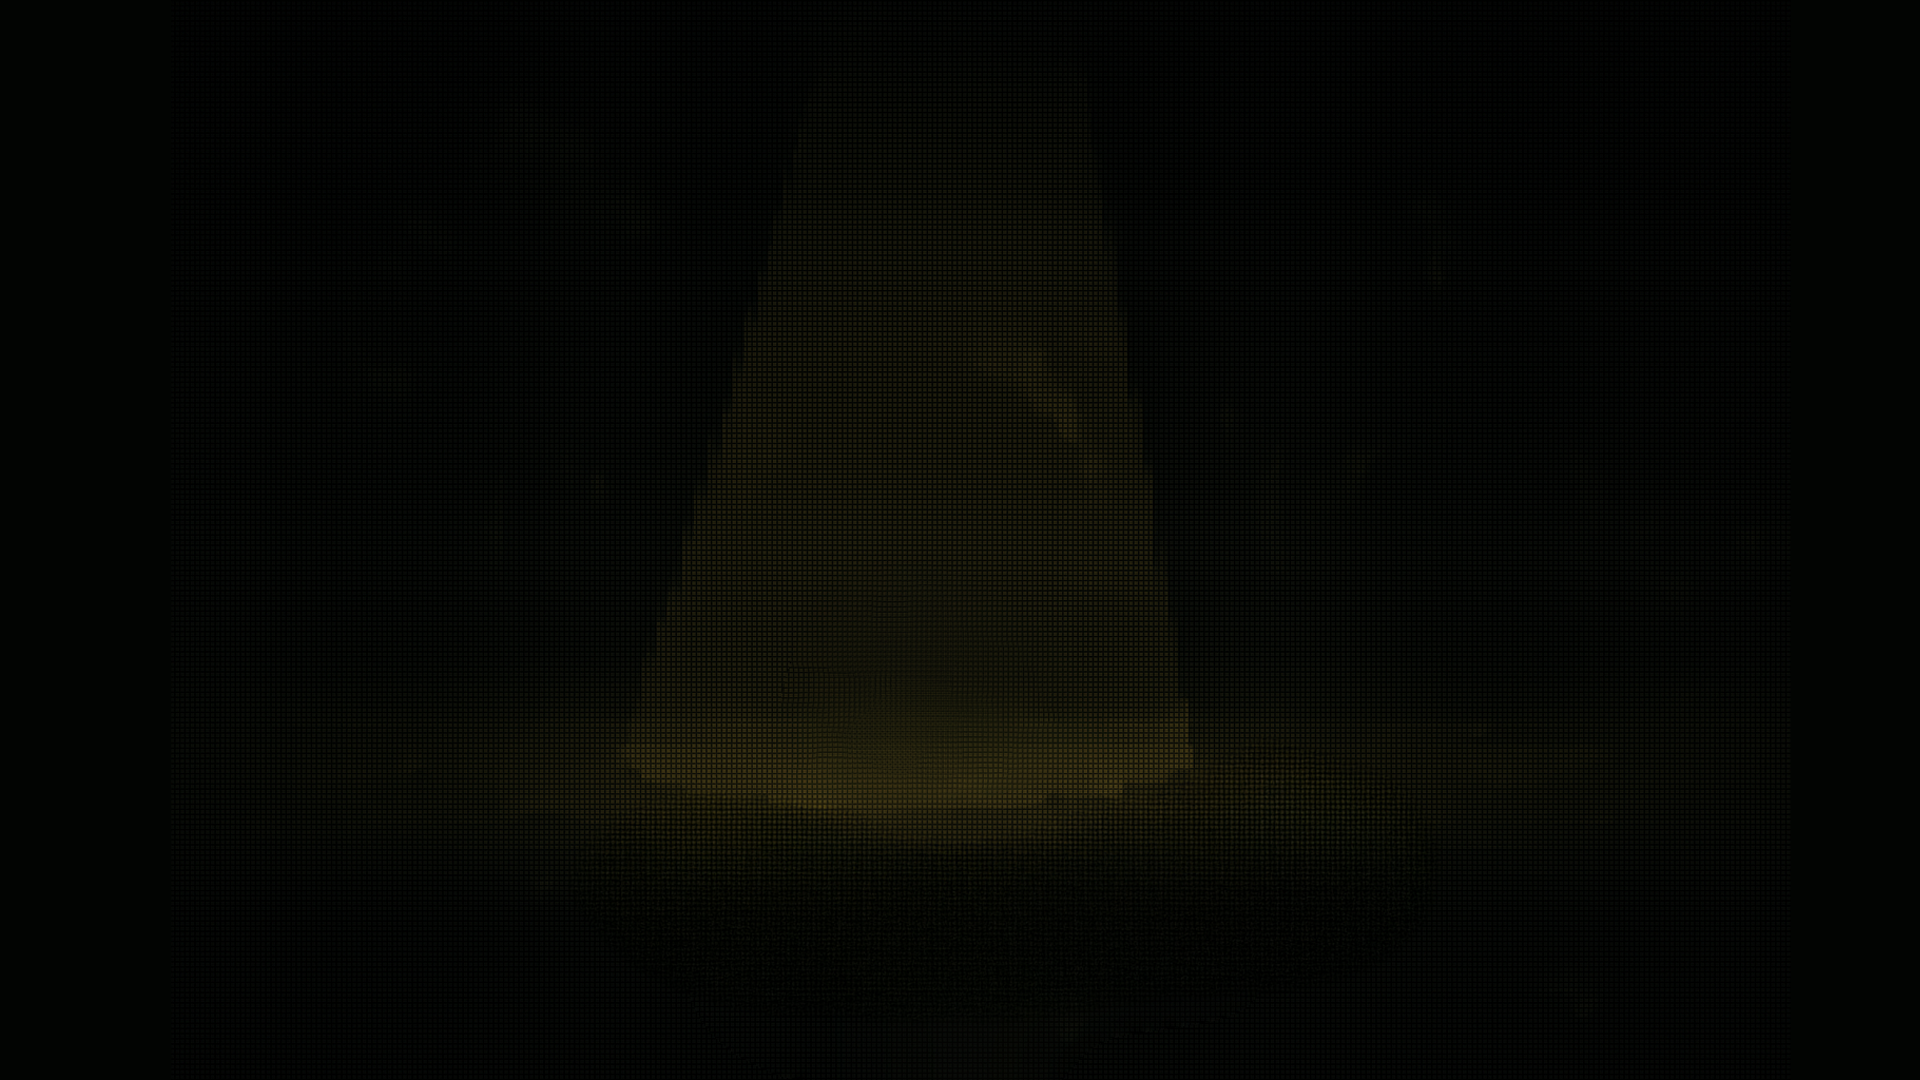
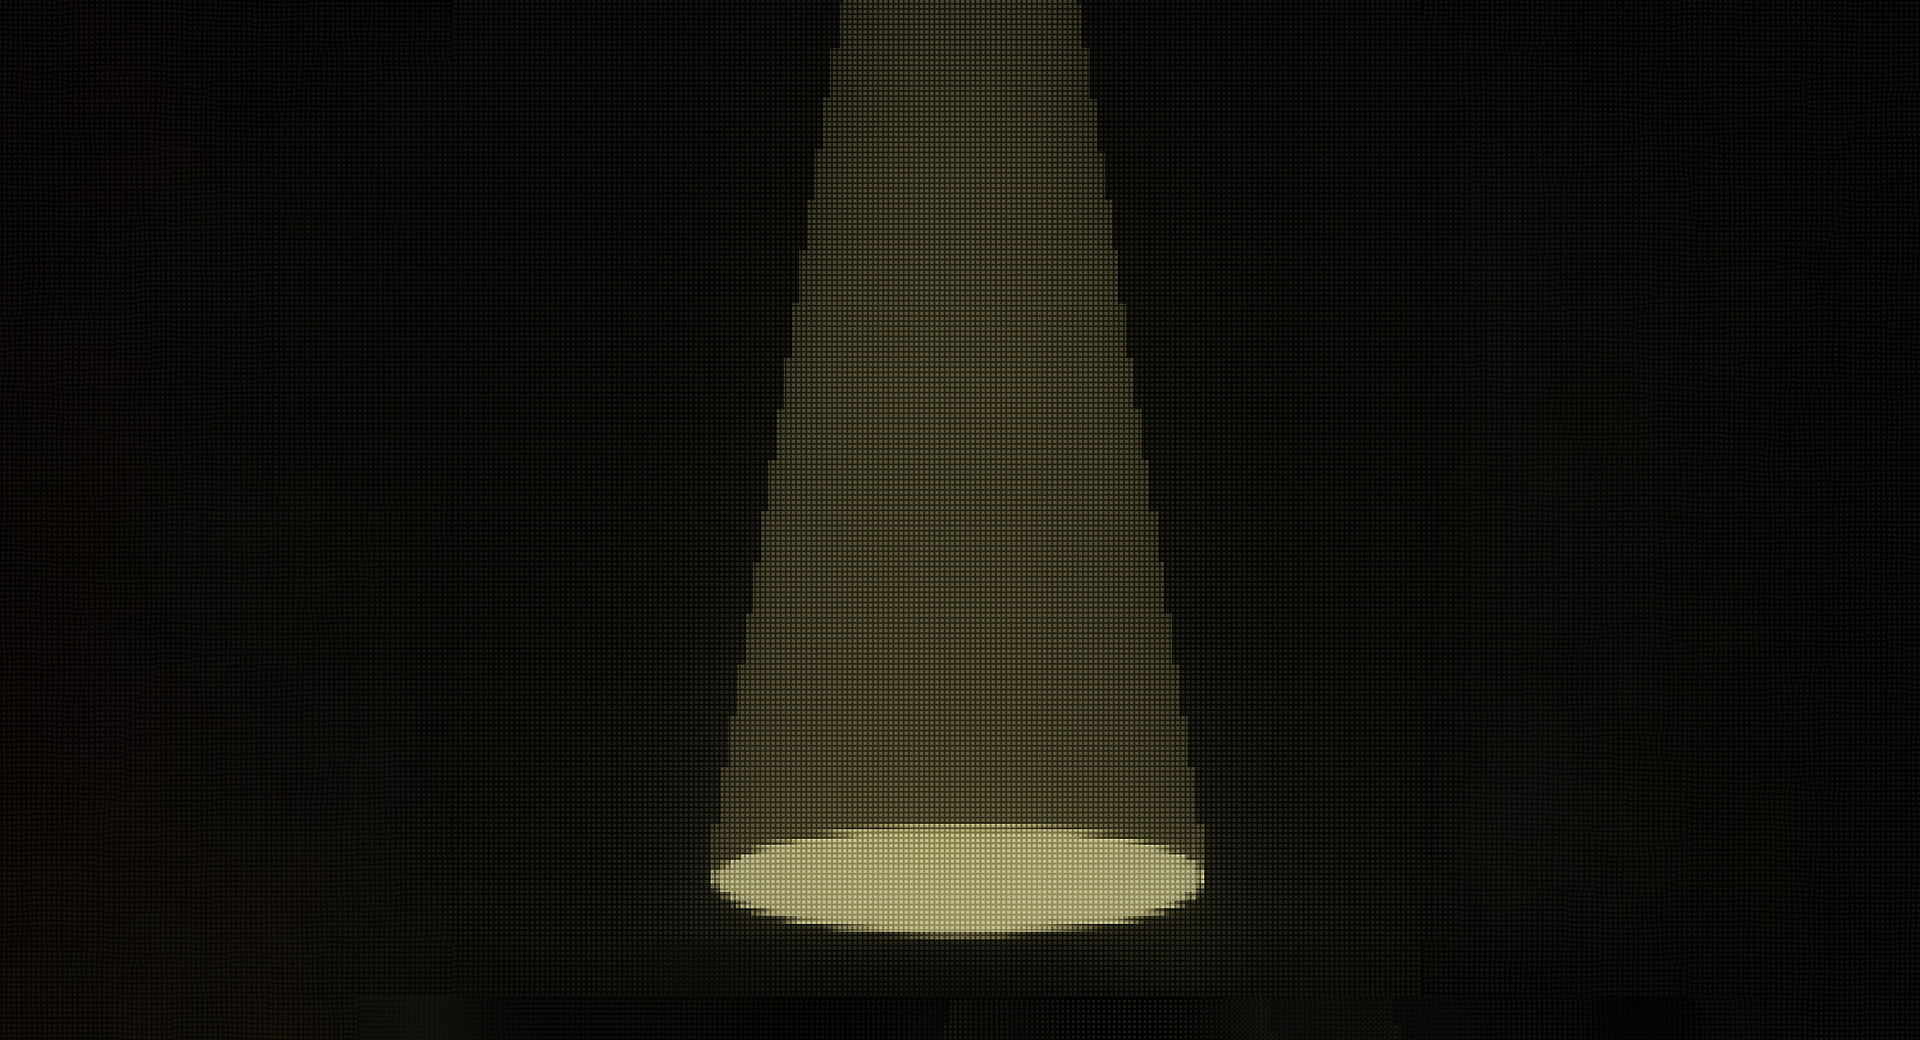
fix loading

Changed region(s): [[0.2812, 0.0, 0.7188, 0.9538]]

diff --git a/src/App.jsx b/src/App.jsx
@@ -1,31 +1,35 @@
-import { useState } from 'react'
-import Title from './pages/Title'
-import Loading from './pages/Loading'
-import Game from './pages/Game'
-import ThrowEnding from './pages/ThrowEnding'
-import PickEnding from './pages/PickEnding'
+import { useState } from 'react';
+import Title from './pages/Title';
+import Loading from './pages/Loading';
+import Game from './pages/Game';
+import ThrowEnding from './pages/ThrowEnding';
+import PickEnding from './pages/PickEnding';
 
 function App() {
-  const [screen, setScreen] = useState('title')
+    const [screen, setScreen] = useState('title');
 
-  const handleStart = () => {
-    setScreen('loading')
-    setTimeout(() => setScreen('game'), 2000)
-  }
+    const handleStart = () => {
+        setScreen('loading');
+        // setTimeout(() => setScreen('game'), 2000)
+    };
 
-  const handleThrow = () => setScreen('throw-ending')
-  const handlePick = () => setScreen('pick-ending')
-  const handleNo = () => alert('Maybe next time!')
+    const handleThrow = () => setScreen('throw-ending');
+    const handlePick = () => setScreen('pick-ending');
+    const handleNo = () => alert('Maybe next time!');
 
-  return (
-    <>
-      {screen === 'title' && <Title onYes={handleStart} onNo={handleNo} />}
-      {screen === 'loading' && <Loading />}
-      {screen === 'game' && <Game onThrow={handleThrow} onPick={handlePick} />}
-      {screen === 'throw-ending' && <ThrowEnding />}
-      {screen === 'pick-ending' && <PickEnding />}
-    </>
-  )
+    return (
+        <>
+            {screen === 'title' && (
+                <Title onYes={handleStart} onNo={handleNo} />
+            )}
+            {screen === 'loading' && <Loading />}
+            {screen === 'game' && (
+                <Game onThrow={handleThrow} onPick={handlePick} />
+            )}
+            {screen === 'throw-ending' && <ThrowEnding />}
+            {screen === 'pick-ending' && <PickEnding />}
+        </>
+    );
 }
 
-export default App
+export default App;

diff --git a/src/pages/Loading.css b/src/pages/Loading.css
@@ -1,13 +1,13 @@
 @font-face {
     font-family: 'CubeCavern';
     src: url('/assets/fonts/cube_cavern.ttf') format('truetype');
-  }
-  
-  .loading-screen {
+}
+
+.loading-screen {
     width: 100vw;
     height: 100vh;
     background-size: cover;
-    background-position: center;
+    background-position: bottom center;
     background-repeat: no-repeat;
     display: flex;
     flex-direction: column;
@@ -15,21 +15,63 @@
     justify-content: center;
     font-family: 'CubeCavern', monospace;
     image-rendering: pixelated;
-  }
-  
-  .spotlight {
-    background: radial-gradient(circle at center, rgba(255, 255, 255, 0.2), transparent 70%);
-    padding: 20px;
+    position: relative;
+}
+
+.spotlight {
+    padding: 3vw;
     border-radius: 50%;
-    margin-bottom: 20px;
-  }
-  
-  .trash {
-    width: 80px;
-  }
-  
-  .loading-text {
-    font-size: 18px;
-    color: #fff;
-  }
-  
+    margin-bottom: 4vh;
+}
+
+.trash {
+    position: absolute;
+    bottom: 10%;
+    width: 150px;
+}
+
+.loading-text {
+    position: absolute;
+    bottom: 20%;
+    font-size: 60px;
+    color: #fff8c5;
+    white-space: nowrap;
+    display: flex;
+    align-items: center;
+}
+
+.dot {
+    margin-left: 0.5vw;
+    opacity: 0;
+    animation: blink 1.5s infinite;
+}
+
+.dot:nth-child(1) {
+    animation-delay: 0.3s;
+}
+.dot:nth-child(2) {
+    animation-delay: 0.6s;
+}
+.dot:nth-child(3) {
+    animation-delay: 0.9s;
+}
+
+@keyframes blink {
+    0%,
+    20% {
+        opacity: 0;
+    }
+    50% {
+        opacity: 1;
+    }
+    100% {
+        opacity: 0;
+    }
+}
+
+/* 📱 모바일 대응 */
+@media (max-width: 768px) {
+    .dot {
+        margin-left: 1vw;
+    }
+}

diff --git a/src/pages/Loading.jsx b/src/pages/Loading.jsx
@@ -1,17 +1,23 @@
-import React from 'react'
-import './Loading.css'
-import trashImg from '../assets/images/titletrash.png'
-import loadingBg from '../assets/images/loading-bg.png'
+import React from 'react';
+import './Loading.css';
+import trashImg from '../assets/images/titletrash.png';
+import loadingBg from '../assets/images/loading-bg.png';
 
 const Loading = () => {
-  return (
-    <div className="loading-screen" style={{ backgroundImage: `url(${loadingBg})` }}>
-      <div className="spotlight">
-        <img src={trashImg} alt="trash" className="trash" />
-      </div>
-      <p className="loading-text">loading...</p>
-    </div>
-  )
-}
+    return (
+        <div
+            className="loading-screen"
+            style={{ backgroundImage: `url(${loadingBg})` }}
+        >
+            <img src={trashImg} alt="trash" className="trash" />
 
-export default Loading
+            <p className="loading-text">
+                loading<span className="dot">.</span>
+                <span className="dot">.</span>
+                <span className="dot">.</span>
+            </p>
+        </div>
+    );
+};
+
+export default Loading;
